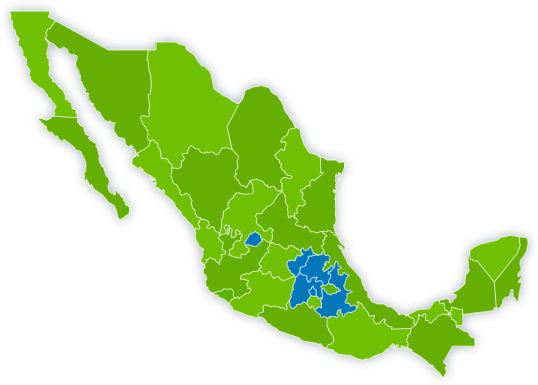
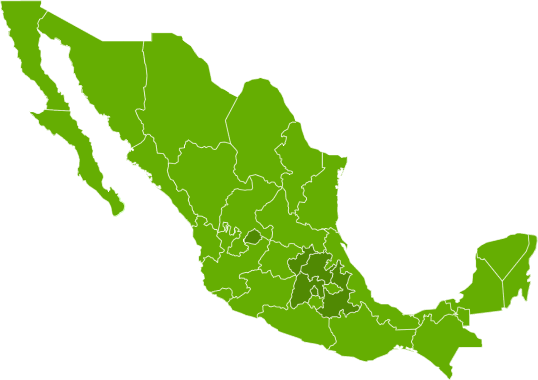
Cambios- 22-01-2015 - SFTK

Changed region(s): [[0.0, 0.0, 1.0, 1.0], [0.5056, 0.2316, 0.5353, 0.2895], [0.5651, 0.4632, 0.5948, 0.4921]]

diff --git a/styles/estilos.css b/styles/estilos.css
@@ -504,15 +504,36 @@ p{
 .inicio-unidades-contenido .unidades-mapa{
 	width: 500px;
 }
-.inicio-unidades-contenido .unidades-menu li{
-	display: inline-block;
-}
-
 .inicio-unidades-contenido .unidades-info{
 	background: transparent url(../images/bg-unidades-info.png) no-repeat;
 	width: 341px;
 	height: 216px;
 	display: block;
+	margin-left: auto;
+	margin-right: auto;
+	margin-top: 20px;
+}
+
+.inicio-unidades-contenido .unidades-menu li{
+	display: inline-block;
+}
+.unidades-menu .unidad-aguascalientes a{
+	background: transparent url(../images/unidades-didactica.png) no-repeat 0px 3px;
+	width: 135px;
+	height: 26px;
+	display: block;
+}
+.unidades-menu .unidad-aguascalientes a:hover{
+	background: transparent url(../images/unidades-didactica.png) no-repeat 0px -64px;
+}
+.unidades-menu .unidad-toluca a{
+	background: transparent url(../images/unidades-didactica.png) no-repeat -166px 3px;
+	width: 69px;
+	height: 26px;
+	display: block;
+}
+.unidades-menu .unidad-toluca a:hover{
+	background: transparent url(../images/unidades-didactica.png) no-repeat -166px -64px;
 }
 
 /* Mapa
@@ -522,11 +543,12 @@ ul#mapa {
   position : relative;
   display : block;
   background : transparent url(../images/mapa-mexico.png) no-repeat 0 0;
-  width : 350px;
-  height : 250px;
+	width: 540px;
+	height: 390px;
   border : none;
   margin : 0 auto 0;
   padding : 0;
+	margin-top: -30px;
 }
 
 ul#mapa li { 
@@ -570,7 +592,9 @@ ul#mapa li a#cmp01 {
   width : 80px;
   height : 60px;
   margin-top : 0;
-  margin-left : 130px;
+  margin-left : 0px;
+	background: #000;
+
 }
 
 ul#mapa li a#cmp01:hover, ul#mapa li a#cmp01:focus, ul#mapa li a#cmp01:active {
@@ -578,8 +602,13 @@ ul#mapa li a#cmp01:hover, ul#mapa li a#cmp01:focus, ul#mapa li a#cmp01:active {
 }
 
 ul#mapa li a#cmp01:hover span.offset, ul#mapa li a#cmp01:focus span.offset, ul#mapa li a#cmp01:active span.offset {
-  margin-top : -1px;
-  margin-left : 230px;
+  margin-top : 0px;
+  margin-left : 0px;
+	background: #000;
+	position: relative;
+	left: -280px;
+	top: 100px;
+	
 }
 
 /* hot-spot 02 css */

diff --git a/index.html b/index.html
@@ -47,8 +47,6 @@
 					<li><img src="img-slider-inicio/foto2.jpg"></li>
 					<li><img src="img-slider-inicio/foto4.jpg"></li>
 				</ul>					
-				<span class="nvgt" id="prev"></span>
-				<span class="nvgt" id="next"></span>
 			</div>
 					</div>
 				</div>
@@ -146,10 +144,10 @@
 							<div class="unidades-menu">
 								<ul>
 									<li class="unidad-aguascalientes">
-										<a href="#cmp01">AGUASCALIENTES</a>
+										<a href="#cmp01"></a>
 									</li>
 									<li class="unidad-toluca">
-										<a href="#cmp02">TOLUCA</a>
+										<a href="#cmp02"></a>
 									</li>
 									<li class="unidad-hidalgo">
 										<a href="#cmp03">HIDALGO</a>
